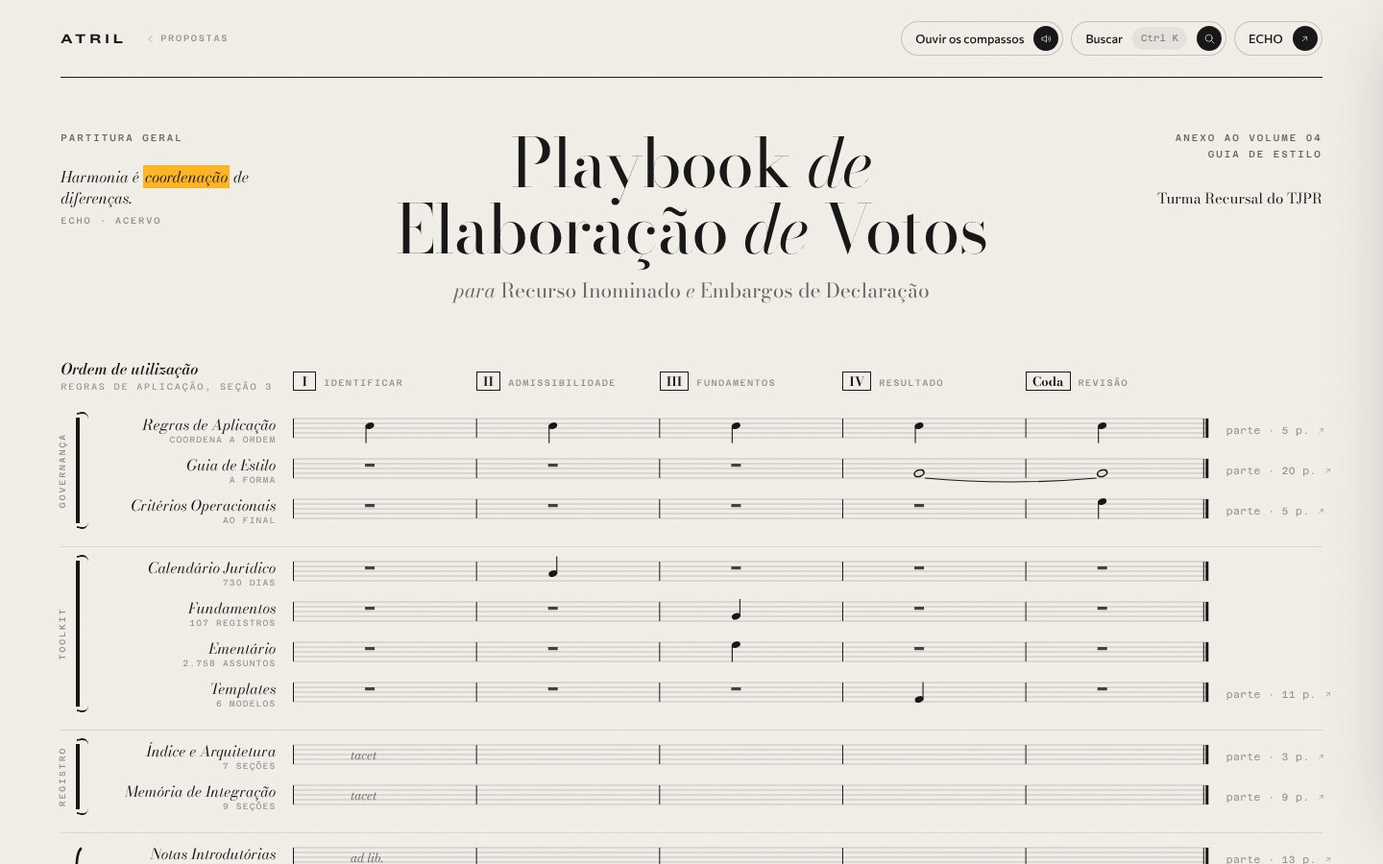
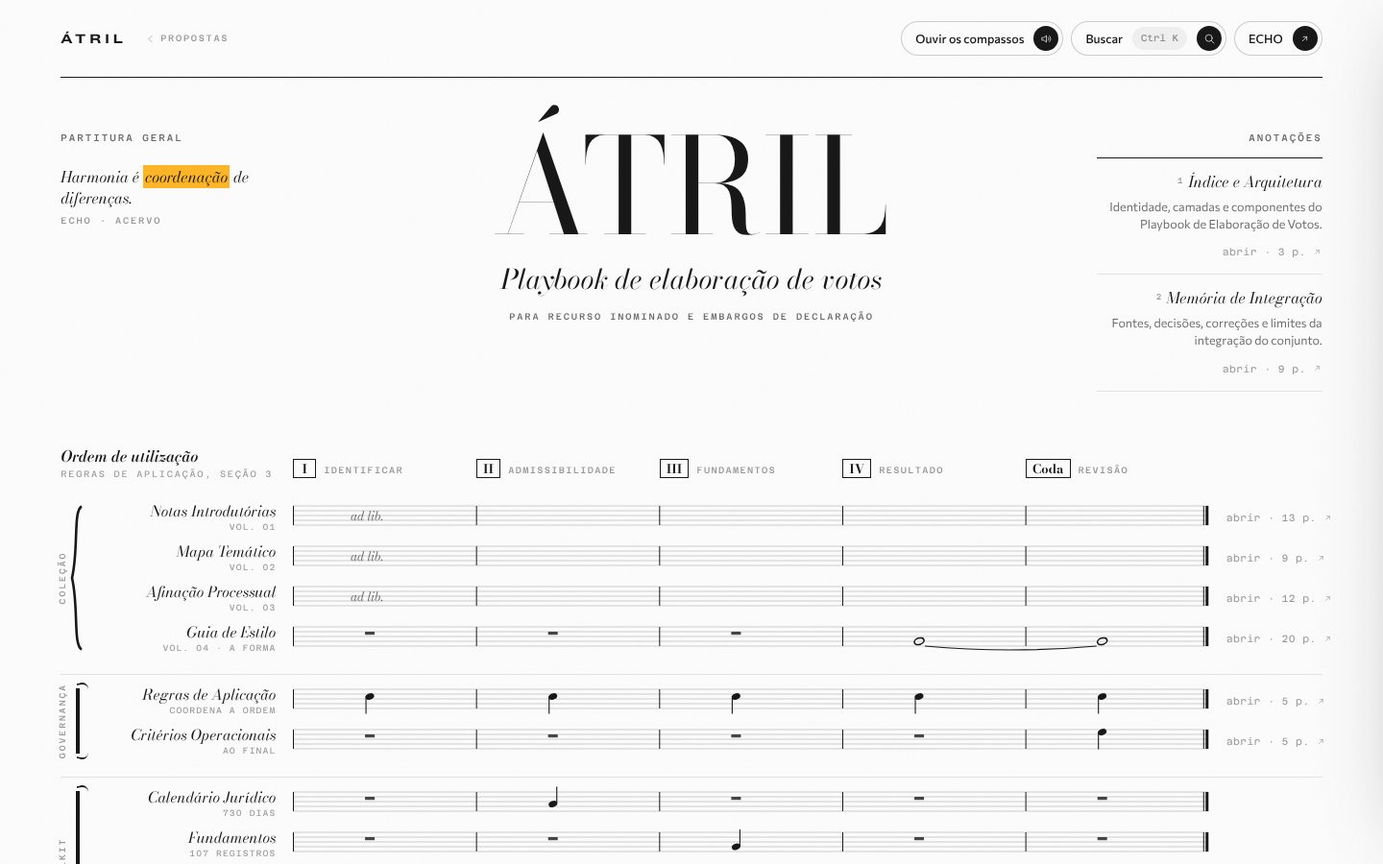
docs(atril): ajusta a proposta B, escolhida
- Coleção passa a ser o primeiro naipe e termina no Guia de Estilo, que
  deixa de aparecer duas vezes; a Governança vem logo depois.
- Índice e Arquitetura e Memória de Integração saem da partitura e viram
  anotações na folha de rosto, no lugar das linhas de origem.
- Título ÁTRIL, subtítulo "Playbook de elaboração de votos", fundo #FCFCFC.
- "abrir" substitui "parte"; o PDF de cada pauta vira link real, fora do
  link da linha.
- A página de propostas marca B como escolhida e registra as decisões.

Claude-Session: https://claude.ai/code/session_01GJcbAC3DcYgjKWACJqr4z9

diff --git a/assets/atril/fonte/propostas/b-partitura.html b/assets/atril/fonte/propostas/b-partitura.html
@@ -3,17 +3,18 @@
 <head>
 <meta charset="utf-8">
 <meta name="viewport" content="width=device-width, initial-scale=1, viewport-fit=cover">
-<title>ATRIL · Partitura geral</title>
+<title>ÁTRIL · Partitura geral</title>
 <link rel="preconnect" href="https://fonts.googleapis.com">
 <link rel="preconnect" href="https://fonts.gstatic.com" crossorigin>
 <link href="https://fonts.googleapis.com/css2?family=Azeret+Mono:wght@400;500&family=Bodoni+Moda:ital,opsz,wght@0,6..96,400..800;1,6..96,400..700&family=Commissioner:wght@300;400;500;600&family=Zalando+Sans+Expanded:wght@700&display=swap" rel="stylesheet">
 <style>
 /* Proposta B · Partitura geral. O acervo como partitura de regência: cada material é uma pauta,
-   agrupada por chave como os naipes de uma orquestra; os compassos são a ordem de utilização das Regras de Aplicação,
-   e as notas ficam onde as Regras mandam usar cada componente. Ler na vertical é ler um passo. */
+   agrupada por chave como os naipes de uma orquestra (Coleção, Governança, Toolkit); os compassos são a ordem
+   de utilização das Regras de Aplicação, e as notas ficam onde as Regras mandam usar cada componente.
+   Ler na vertical é ler um passo. O Registro fica fora do sistema, como anotações na folha de rosto. */
 :root{
   color-scheme: light;
-  --papel:#F2EFE9; --papel-2:#F7F5F0; --tinta:#181818; --grafite:rgba(24,24,24,.64); --cinza:rgba(24,24,24,.44);
+  --papel:#FCFCFC; --papel-2:#FCFCFC; --tinta:#181818; --grafite:rgba(24,24,24,.64); --cinza:rgba(24,24,24,.44);
   --fio:rgba(24,24,24,.2); --fio-2:rgba(24,24,24,.1); --ambar:#FFB627; --ambar-luz:rgba(255,182,39,.16); --latao:#9C7426;
   --serif:"Bodoni Moda",Didot,"Bodoni 72",Georgia,serif;
   --body:"Commissioner",system-ui,sans-serif;
@@ -56,12 +57,20 @@ button{font:inherit;color:inherit;background:none;border:0;padding:0;cursor:poin
 .epigrafe mark{background:var(--ambar);color:inherit;padding:0 .12em}
 .epigrafe small{display:block;margin-top:8px;font:500 9.5px/1 var(--mono);letter-spacing:.2em;text-transform:uppercase;color:var(--cinza)}
 .titulo{text-align:center}
-.titulo h1{margin:0 auto;font:400 clamp(36px,4.9vw,80px)/.98 var(--serif);font-variation-settings:"opsz" 96;letter-spacing:-.02em;text-wrap:balance}
-.titulo h1 i{font-weight:400}
-.titulo p{margin:16px 0 0;font:italic 400 clamp(16px,1.5vw,21px)/1.3 var(--serif);color:var(--grafite)}
-.titulo p span{font-style:normal}
-.rosto-d{text-align:right;font:500 10px/1.7 var(--mono);letter-spacing:.2em;text-transform:uppercase;color:var(--grafite)}
-.rosto-d b{display:block;margin-top:28px;font:400 15px/1.3 var(--serif);letter-spacing:0;text-transform:none;color:var(--tinta)}
+.titulo h1{margin:0 auto;font:400 clamp(64px,9.6vw,156px)/.86 var(--serif);font-variation-settings:"opsz" 96;letter-spacing:.015em}
+.titulo .sub{margin:20px 0 0;font:italic 400 clamp(19px,2vw,30px)/1.2 var(--serif);color:var(--tinta)}
+.titulo .instr{margin:14px 0 0;font:500 9.5px/1.6 var(--mono);letter-spacing:.2em;text-transform:uppercase;color:var(--grafite)}
+.rosto-d{justify-self:end;width:min(100%,250px);text-align:right}
+.rosto-d .rot-a{display:block;margin-bottom:12px;font:500 10px/1.7 var(--mono);letter-spacing:.2em;text-transform:uppercase;color:var(--grafite)}
+.anot{list-style:none;margin:0;padding:0;border-top:1px solid var(--tinta)}
+.anot li{padding:12px 0 13px;border-bottom:1px solid var(--fio-2)}
+.anot .an{display:inline;font:italic 400 16px/1.25 var(--serif);transition:background .4s var(--mola)}
+.anot .an:hover,.anot .an:focus-visible,.anot .an[aria-current="page"]{background:linear-gradient(transparent 58%,var(--ambar) 58%,var(--ambar) 92%,transparent 92%)}
+.anot .an sup{font:500 8.5px/1 var(--mono);letter-spacing:.06em;color:var(--cinza);margin-right:5px;vertical-align:.5em}
+.anot p{margin:5px 0 6px;font:400 12.5px/1.45 var(--body);color:var(--grafite)}
+.anot .ab{display:inline-flex;align-items:center;gap:6px;font:400 10.5px/1 var(--mono);letter-spacing:.04em;color:var(--cinza);transition:color .4s var(--mola)}
+.anot .ab .ic{width:11px;height:11px}
+.anot .ab:hover{color:var(--tinta)}
 
 /* sistema */
 .sistema{position:relative;--x0:calc(var(--chave) + var(--nomes))}
@@ -88,6 +97,7 @@ button{font:inherit;color:inherit;background:none;border:0;padding:0;cursor:poin
 .chave svg{position:absolute;right:2px;top:0;height:100%;width:14px}
 
 .voz{position:relative;height:42px;cursor:pointer;transition:opacity .5s var(--mola)}
+.voz .nm:focus-visible{outline-offset:4px}
 .voz .nm{grid-column:2;justify-self:end;padding-right:18px;text-align:right;line-height:1.1;transition:transform .5s var(--mola)}
 .voz .nm b{font:italic 400 15.5px/1.1 var(--serif);white-space:nowrap}
 .voz .nm small{display:block;margin-top:3px;font:400 9px/1 var(--mono);letter-spacing:.12em;text-transform:uppercase;color:var(--cinza)}
@@ -95,8 +105,8 @@ button{font:inherit;color:inherit;background:none;border:0;padding:0;cursor:poin
 .voz .pt{grid-column:4;justify-self:start;padding-left:18px;font:400 10.5px/1 var(--mono);letter-spacing:.04em;color:var(--cinza);white-space:nowrap;display:inline-flex;align-items:center;gap:6px;transition:color .4s var(--mola)}
 .voz .pt .ic{width:11px;height:11px}
 .voz .pt:hover{color:var(--tinta)}
-.voz:hover .nm,.voz:focus-visible .nm{transform:translateX(-4px)}
-.voz:hover .nm b,.voz:focus-visible .nm b,.voz[aria-current="page"] .nm b{background:linear-gradient(transparent 58%,var(--ambar) 58%,var(--ambar) 92%,transparent 92%)}
+.voz:hover .nm,.voz .nm:focus-visible{transform:translateX(-4px)}
+.voz:hover .nm b,.voz .nm:focus-visible b,.voz[aria-current="page"] .nm b{background:linear-gradient(transparent 58%,var(--ambar) 58%,var(--ambar) 92%,transparent 92%)}
 .sistema.foco-voz .voz:not(.quente){opacity:.32}
 .pauta .l{stroke:var(--fio);stroke-width:1}
 .pauta .bar{stroke:var(--tinta);stroke-width:1}
@@ -152,7 +162,7 @@ button{font:inherit;color:inherit;background:none;border:0;padding:0;cursor:poin
 .secoes li{break-inside:avoid;display:grid;grid-template-columns:30px 1fr;padding:10px 0;border-top:1px solid var(--fio-2);font:400 14.5px/1.4 var(--body)}
 .secoes li span{font:italic 600 14px/1.4 var(--serif);color:var(--latao)}
 .cta{display:inline-flex;align-items:center;gap:14px;height:46px;padding:0 6px 0 22px;border-radius:999px;background:var(--tinta);color:var(--papel);font:500 13.5px/1 var(--body);transition:transform .35s var(--mola)}
-.cta .b{width:34px;height:34px;border-radius:50%;display:grid;place-items:center;background:rgba(242,239,233,.12);transition:transform .5s var(--mola),background .5s var(--mola),color .5s var(--mola)}
+.cta .b{width:34px;height:34px;border-radius:50%;display:grid;place-items:center;background:rgba(252,252,252,.12);transition:transform .5s var(--mola),background .5s var(--mola),color .5s var(--mola)}
 .cta:hover .b{transform:translate(2px,-1px) scale(1.06);background:var(--ambar);color:var(--tinta)}
 .cta:active{transform:scale(.98)}
 .cta.cl{background:transparent;color:var(--tinta);box-shadow:inset 0 0 0 1px var(--fio)}
@@ -183,7 +193,7 @@ button{font:inherit;color:inherit;background:none;border:0;padding:0;cursor:poin
   :root{--parte:0px}
   .voz .pt{display:none}
   .rosto{grid-template-columns:1fr;text-align:center}
-  .rosto-e,.rosto-d{text-align:center}.epigrafe{margin:18px auto 0}.rosto-d b{margin-top:10px}
+  .rosto-e,.rosto-d{text-align:center}.epigrafe{margin:18px auto 0}.rosto-d{justify-self:center;width:min(100%,360px)}
   .rosto-e{order:2}.titulo{order:1}.rosto-d{order:3}
 }
 @media (max-width:700px){
@@ -213,7 +223,7 @@ button{font:inherit;color:inherit;background:none;border:0;padding:0;cursor:poin
 <div class="grao" aria-hidden="true"></div>
 <div class="pag">
   <header class="topo">
-    <div style="display:flex;align-items:center;gap:18px"><a class="marca" href="#" aria-label="ATRIL, início">ATRIL</a><a class="volta" href="./"><svg class="ic" viewBox="0 0 24 24" aria-hidden="true"><path d="M15 6 9 12l6 6"/></svg>Propostas</a></div>
+    <div style="display:flex;align-items:center;gap:18px"><a class="marca" href="#" aria-label="ÁTRIL, início">ÁTRIL</a><a class="volta" href="./"><svg class="ic" viewBox="0 0 24 24" aria-hidden="true"><path d="M15 6 9 12l6 6"/></svg>Propostas</a></div>
     <div class="acoes">
       <button class="pil" type="button" id="b-som" aria-pressed="false"><span class="t">Ouvir os compassos</span><span class="b"><svg class="ic" viewBox="0 0 24 24" aria-hidden="true"><path d="M4 9.5h3.5L12 5.5v13l-4.5-4H4z"/><path d="M15.5 9a4 4 0 0 1 0 6M18 6.5a7.5 7.5 0 0 1 0 11"/></svg></span></button>
       <button class="pil" type="button" id="b-busca"><span class="t">Buscar</span><kbd>Ctrl K</kbd><span class="b"><svg class="ic" viewBox="0 0 24 24" aria-hidden="true"><circle cx="10.5" cy="10.5" r="6.5"/><path d="m15.5 15.5 5 5"/></svg></span></button>
@@ -226,10 +236,11 @@ button{font:inherit;color:inherit;background:none;border:0;padding:0;cursor:poin
       <p class="epigrafe">Harmonia é <mark>coordenação</mark> de diferenças.<small>ECHO · Acervo</small></p>
     </div>
     <div class="titulo">
-      <h1>Playbook <i>de</i><br>Elaboração <i>de</i> Votos</h1>
-      <p>para <span>Recurso Inominado</span> e <span>Embargos de Declaração</span></p>
+      <h1>ÁTRIL</h1>
+      <p class="sub">Playbook de elaboração de votos</p>
+      <p class="instr">para Recurso Inominado e Embargos de Declaração</p>
     </div>
-    <div class="rosto-d">Anexo ao Volume 04<br>Guia de Estilo<b>Turma Recursal do TJPR</b></div>
+    <aside class="rosto-d" aria-label="Anotações"><span class="rot-a">Anotações</span><ol class="anot" id="anot"></ol></aside>
   </section>
 
   <section class="sistema" id="sistema" aria-label="Partitura geral do acervo">
@@ -248,7 +259,7 @@ button{font:inherit;color:inherit;background:none;border:0;padding:0;cursor:poin
 
 <div class="veu" id="veu"></div>
 <aside class="parte" id="parte" aria-hidden="true" aria-labelledby="p-t">
-  <div class="parte-h"><span id="parte-r">Parte</span><button class="pil" type="button" id="fecha" aria-label="Voltar à partitura"><span class="t">Voltar à partitura</span><kbd>Esc</kbd><span class="b"><svg class="ic" viewBox="0 0 24 24" aria-hidden="true"><path d="m6 6 12 12M18 6 6 18"/></svg></span></button></div>
+  <div class="parte-h"><span id="parte-r"></span><button class="pil" type="button" id="fecha" aria-label="Voltar à partitura"><span class="t">Voltar à partitura</span><kbd>Esc</kbd><span class="b"><svg class="ic" viewBox="0 0 24 24" aria-hidden="true"><path d="m6 6 12 12M18 6 6 18"/></svg></span></button></div>
   <div class="parte-c" id="parte-c"></div>
 </aside>
 
@@ -263,24 +274,22 @@ var P={}; A.brancas.forEach(function(m){P[m.id]=m}); A.pretas.forEach(function(m
    Regras: pedal de Dó em todos os compassos. III soa Dó maior; IV suspende (Fá, Sol, Dó); a coda resolve em Dó maior. */
 var NOTA={28:'E4',25.5:'F4',23:'G4',20.5:'A4',18:'B4',15.5:'C5',13:'D5',10.5:'E5'};
 var NAIPES=[
+ {n:'Coleção',tipo:'chaveta',vozes:[
+  {id:'vol-01',nome:'Notas Introdutórias',sub:'vol. 01',marca:'ad lib.',parte:'vol-01'},
+  {id:'vol-02',nome:'Mapa Temático',sub:'vol. 02',marca:'ad lib.',parte:'vol-02'},
+  {id:'vol-03',nome:'Afinação Processual',sub:'vol. 03',marca:'ad lib.',parte:'vol-03'},
+  {id:'guia',nome:'Guia de Estilo',sub:'vol. 04 · a forma',notas:[[4,23,'w'],[5,23,'w']],liga:[4,5],parte:'vol-04'}]},
  {n:'Governança',tipo:'colchete',vozes:[
   {id:'regras',nome:'Regras de Aplicação',sub:'coordena a ordem',notas:[[1,15.5],[2,15.5],[3,15.5],[4,15.5],[5,15.5]],parte:'pdf-regras'},
-  {id:'guia',nome:'Guia de Estilo',sub:'a forma',notas:[[4,23,'w'],[5,23,'w']],liga:[4,5],parte:'vol-04'},
   {id:'criterios',nome:'Critérios Operacionais',sub:'ao final',notas:[[5,10.5]],parte:'pdf-criterios'}]},
  {n:'Toolkit',tipo:'colchete',vozes:[
   {id:'calendario',nome:'Calendário Jurídico',sub:'730 dias',notas:[[2,20.5]],ferr:1},
   {id:'fundamentos',nome:'Fundamentos',sub:'107 registros',notas:[[3,23]],ferr:1},
   {id:'ementario',nome:'Ementário',sub:'2.758 assuntos',notas:[[3,10.5]],ferr:1},
   {id:'templates',nome:'Templates',sub:'6 modelos',notas:[[4,25.5]],ferr:1,parte:'pdf-templates'}]},
- {n:'Registro',tipo:'colchete',vozes:[
-  {id:'indice',nome:'Índice e Arquitetura',sub:'7 seções',marca:'tacet',parte:'pdf-indice'},
-  {id:'memoria',nome:'Memória de Integração',sub:'9 seções',marca:'tacet',parte:'pdf-memoria'}]},
- {n:'Coleção',tipo:'chaveta',vozes:[
-  {id:'vol-01',nome:'Notas Introdutórias',sub:'vol. 01',marca:'ad lib.',parte:'vol-01'},
-  {id:'vol-02',nome:'Mapa Temático',sub:'vol. 02',marca:'ad lib.',parte:'vol-02'},
-  {id:'vol-03',nome:'Afinação Processual',sub:'vol. 03',marca:'ad lib.',parte:'vol-03'},
-  {id:'vol-04',nome:'Guia de Estilo',sub:'vol. 04',marca:'col Guia',parte:'vol-04'}]}
-];
+ ];
+/* Registro: fora do sistema, anotado à margem da folha de rosto. */
+var ANOT=[{id:'indice',parte:'pdf-indice'},{id:'memoria',parte:'pdf-memoria'}];
 var MARCAS=[['I','identificar'],['II','admissibilidade'],['III','fundamentos'],['IV','resultado'],['Coda','revisão']];
 var LETRA=A.passos.concat(['Ao final, aplicar os critérios operacionais e conferir a correspondência entre fundamentação, dispositivo e ementa.']);
 
@@ -290,11 +299,14 @@ $('#naipes').innerHTML=NAIPES.map(function(g){
   return '<div class="naipe"><div class="chave" aria-hidden="true"><span class="nome-n">'+g.n+'</span>'+(g.tipo==='colchete'?'<span class="colchete"></span>':'<svg viewBox="0 0 14 100" preserveAspectRatio="none"><path d="M12 1 C3 4 9 30 2 50 C9 70 3 96 12 99" fill="none" stroke="#181818" stroke-width="2.6" vector-effect="non-scaling-stroke"/></svg>')+'</div>'+
   g.vozes.map(function(v){
     var p=v.parte?P[v.parte]:null;
-    return '<a class="linha voz" href="#'+v.id+'" data-id="'+v.id+'"><span></span><span class="nm"><b>'+v.nome+'</b><small>'+v.sub+'</small></span><svg class="pauta" data-v="'+v.id+'" aria-hidden="true"></svg>'+
-      (p?'<span class="pt" data-pdf="'+p.url+'">parte · '+p.paginas+' p. '+SETA+'</span>':'<span></span>')+'</a>';
+    return '<div class="linha voz" data-id="'+v.id+'"><span></span><a class="nm" href="#'+v.id+'"><b>'+v.nome+'</b><small>'+v.sub+'</small></a><svg class="pauta" data-v="'+v.id+'" aria-hidden="true"></svg>'+
+      (p?'<a class="pt" href="'+p.url+'" target="_blank" rel="noopener" aria-label="Abrir '+v.nome+' em PDF, '+p.paginas+' páginas">abrir · '+p.paginas+' p. '+SETA+'</a>':'<span></span>')+'</div>';
   }).join('')+'</div>';
 }).join('');
-var VOZ={}; NAIPES.forEach(function(g){g.vozes.forEach(function(v){VOZ[v.id]=v})});
+var VOZ={}; NAIPES.forEach(function(g){g.vozes.forEach(function(v){v.naipe=g.n;VOZ[v.id]=v})});
+$('#anot').innerHTML=ANOT.map(function(a,i){var m=P[a.id],p=P[a.parte];
+  return '<li><a class="an" href="#'+a.id+'" data-id="'+a.id+'"><sup>'+(i+1)+'</sup>'+m.nome+'</a><p>'+m.lead+'</p>'+
+    '<a class="ab" href="'+p.url+'" target="_blank" rel="noopener" aria-label="Abrir '+m.nome+' em PDF, '+p.paginas+' páginas">abrir · '+p.paginas+' p. '+SETA+'</a></li>'}).join('');
 
 function desenha(){
   var svgs=document.querySelectorAll('svg.pauta');
@@ -380,7 +392,7 @@ function docHTML(m){
     return '<div class="sec"><h3>'+s[0]+'</h3><div class="princ">'+s[1].map(function(p){return '<div><b>'+p[0]+'</b><span>'+p[1]+'</span></div>'}).join('')+'</div></div>'}).join('')+'</div>';
   else corpo='<ol class="secoes">'+m.secoes.map(function(s){var k=s.indexOf('. ');return '<li><span>'+s.slice(0,k)+'</span>'+s.slice(k+2)+'</li>'}).join('')+'</ol>';
   return '<h2 class="p-t" id="p-t">'+m.nome+'</h2><p class="p-l">'+m.lead+'</p><div class="p-meta"><span>'+m.camada+'</span><span>'+m.secoes.length+' seções</span><span>05/10/2026</span></div><div class="regua"></div>'+corpo+
-  '<div class="botoes"><a class="cta" href="'+m.pdf.url+'" target="_blank" rel="noopener">'+m.pdf.nome+' · '+m.pdf.paginas+' p.<span class="b">'+SETA+'</span></a></div>';
+  '<div class="botoes"><a class="cta" href="'+m.pdf.url+'" target="_blank" rel="noopener">Abrir o PDF · '+m.pdf.paginas+' p.<span class="b">'+SETA+'</span></a></div>';
 }
 function volHTML(m){
   return '<h2 class="p-t" id="p-t">'+m.nome+'</h2><p class="p-l">'+m.sub+'.</p><div class="p-meta"><span>Coleção da Turma Recursal</span><span>'+m.volume+'</span><span>PDF · '+m.paginas+' páginas</span></div><div class="regua"></div>'+
@@ -417,17 +429,18 @@ function liga(id){
 function abre(id){
   var v=VOZ[id], m=P[id];
   if(!v&&!m){fecha();return}
-  document.querySelectorAll('.voz').forEach(function(el){el.toggleAttribute('aria-current',el.dataset.id===id)});
-  $('#parte-r').textContent=v&&v.ferr?'Ferramenta · '+v.nome:(m&&m.tipo==='manual'?'Parte · '+m.volume:'Parte · '+(m?m.nome:''));
+  document.querySelectorAll('.voz,.an').forEach(function(el){el.toggleAttribute('aria-current',el.dataset.id===id)});
+  $('#parte-r').textContent=v&&v.ferr?'Ferramenta · '+v.nome:v?v.naipe+' · '+v.nome:'Anotação · '+m.nome;
   pc.innerHTML=v&&v.ferr?ferrHTML(id):m.tipo==='manual'?volHTML(m):docHTML(m);
   liga(id); pc.scrollTop=0;
   parte.classList.add('on'); parte.setAttribute('aria-hidden','false'); veu.classList.add('on');
 }
-function fecha(){parte.classList.remove('on');parte.setAttribute('aria-hidden','true');veu.classList.remove('on');document.querySelectorAll('.voz').forEach(function(el){el.removeAttribute('aria-current')})}
+function fecha(){parte.classList.remove('on');parte.setAttribute('aria-hidden','true');veu.classList.remove('on');document.querySelectorAll('.voz,.an').forEach(function(el){el.removeAttribute('aria-current')})}
 function rota(){var h=location.hash.slice(1);if(h)abre(h);else fecha()}
 addEventListener('hashchange',rota);
 document.addEventListener('click',function(e){
-  var pt=e.target.closest('.pt'); if(pt){e.preventDefault();open(pt.dataset.pdf,'_blank','noopener');return}
+  if(e.target.closest('a')) return;
+  var voz=e.target.closest('.voz'); if(voz) location.hash=voz.dataset.id;
 });
 function sai(){if(location.hash){history.pushState('',document.title,location.pathname+location.search)}fecha()}
 $('#fecha').addEventListener('click',sai); veu.addEventListener('click',sai);

diff --git a/assets/atril/fonte/propostas/index.html b/assets/atril/fonte/propostas/index.html
@@ -211,26 +211,27 @@ td b{color:var(--tinta);font-weight:600}
     <div class="prop-h">
       <div><h2><span>B</span>Partitura geral</h2>
         <p>O piano sai e entra a regência: o acervo inteiro vira a partitura que o maestro lê, uma pauta por material.</p>
-        <span class="selo">Troca o piano pela regência</span></div>
+        <span class="selo on">Escolhida · versão ajustada</span> <span class="selo">Troca o piano pela regência</span></div>
       <a class="cta" href="b-partitura.html">Abrir protótipo<span class="b"><svg class="ic" viewBox="0 0 24 24" aria-hidden="true"><path d="M8 16 16 8M9.5 8H16v6.5"/></svg></span></a>
     </div>
     <div class="galeria">
-      <figure class="quadro"><div class="moldura"><img src="img/b-compasso.jpg" alt="Proposta Partitura geral: folha de rosto com título em Bodoni e o sistema de pautas agrupadas por chaves, com o compasso III destacado em âmbar."></div><figcaption>Compasso III em foco: Regras, Fundamentos e Ementário soam juntos</figcaption></figure>
+      <figure class="quadro"><div class="moldura"><img src="img/b-compasso.jpg" alt="Proposta Partitura geral ajustada: título ÁTRIL em Bodoni, anotações à direita e o sistema com Coleção, Governança e Toolkit, com o compasso III destacado em âmbar."></div><figcaption>Compasso III em foco: Regras, Fundamentos e Ementário soam juntos</figcaption></figure>
       <div class="pilha">
-        <figure class="quadro"><div class="moldura"><img src="img/b-capa.jpg" alt="Folha de rosto da proposta Partitura geral."></div><figcaption>Folha de rosto e sistema</figcaption></figure>
-        <figure class="quadro"><div class="moldura"><img src="img/b-parte.jpg" alt="A parte do Guia de Estilo aberta sobre a partitura."></div><figcaption>A parte do Guia, aberta sobre a partitura</figcaption></figure>
+        <figure class="quadro"><div class="moldura"><img src="img/b-capa.jpg" alt="Folha de rosto com o título ÁTRIL e as anotações do Registro."></div><figcaption>Folha de rosto com as anotações</figcaption></figure>
+        <figure class="quadro"><div class="moldura"><img src="img/b-parte.jpg" alt="A anotação Índice e Arquitetura aberta sobre a partitura."></div><figcaption>Uma anotação aberta sobre a partitura</figcaption></figure>
       </div>
       <figure class="quadro"><div class="moldura"><img src="img/b-m.jpg" alt="Proposta Partitura geral no celular."></div><figcaption>Celular</figcaption></figure>
     </div>
     <div class="texto-p">
       <div>
-        <p>A página abre como a folha de rosto de uma partitura: título em <b>Bodoni Moda</b> com os "de" em itálico, a instrumentação embaixo ("para Recurso Inominado e Embargos de Declaração"), a autoria à direita e, como epígrafe, a frase do ECHO: <i>Harmonia é coordenação de diferenças</i>, com o marca-texto âmbar da mãe.</p>
-        <p>O sistema é uma <b>matriz de uso verdadeira</b>. Os compassos são a ordem da seção 3 das Regras de Aplicação (I a IV e a coda de revisão). Cada material é uma pauta, agrupada por colchete como um naipe: Governança, Toolkit, Registro e a Coleção, esta presa pela <b>chaveta do piano</b>. As notas estão onde as Regras mandam usar cada componente: Calendário em II; Fundamentos e Ementário em III; Templates em IV; o Guia sustentado de IV até a coda; os Critérios na coda; as Regras como pedal em todos os compassos. Índice e Memória ficam <i>tacet</i>; os volumes, <i>ad libitum</i>.</p>
-        <p>Ler na vertical é ler um passo. Passar o cursor por um compasso acende a coluna e esmaece o resto; com o som ligado, o compasso soa como acorde. As alturas foram escolhidas para que <b>III soe Dó maior, IV fique suspenso e a coda resolva</b>. Clicar num nome abre a parte daquele material sobre a partitura.</p>
+        <p>A página abre como a folha de rosto de uma partitura, sobre o papel #FCFCFC: <b>ÁTRIL</b> em Bodoni Moda, o subtítulo <i>Playbook de elaboração de votos</i> e a instrumentação embaixo. À esquerda, a epígrafe do ECHO, <i>Harmonia é coordenação de diferenças</i>, com o marca-texto âmbar da mãe. À direita, no lugar das linhas de origem, ficam as <b>anotações</b>: Índice e Arquitetura e Memória de Integração, o Registro, que sai do sistema porque não toca na ordem.</p>
+        <p>O sistema é uma <b>matriz de uso verdadeira</b>. Os compassos são a ordem da seção 3 das Regras de Aplicação (I a IV e a coda de revisão). O primeiro naipe é a <b>Coleção</b>, presa pela chaveta do piano, com os volumes 01 a 03 <i>ad libitum</i> e o Guia de Estilo por último, sustentado de IV até a coda. Logo abaixo, a <b>Governança</b>: as Regras como pedal em todos os compassos e os Critérios na coda. Depois o <b>Toolkit</b>: Calendário em II, Fundamentos e Ementário em III, Templates em IV.</p>
+        <p>Ler na vertical é ler um passo. Passar o cursor por um compasso acende a coluna e esmaece o resto; com o som ligado, o compasso soa como acorde. As alturas foram escolhidas para que <b>III soe Dó maior, IV fique suspenso e a coda resolva</b>. Clicar num nome abre o material sobre a partitura; <b>abrir</b>, ao fim de cada pauta, leva ao PDF.</p>
       </div>
       <dl class="ficha">
         <div><dt>Arquétipo</dt><dd>Luxo editorial, divisão editorial</dd></div>
         <div><dt>Tipos</dt><dd>Bodoni Moda, Commissioner, Azeret Mono; Zalando só na marca</dd></div>
+        <div><dt>Fundo</dt><dd>#FCFCFC, o papel da paleta fechada</dd></div>
         <div><dt>Rolagem</dt><dd>Sim, curta. A partitura cabe quase inteira na primeira tela</dd></div>
         <div><dt>Custo</dt><dd>Baixo a médio. SVG simples, sem geometria de perspectiva</dd></div>
         <div><dt>Risco</dt><dd>O mapeamento das notas precisa acompanhar as Regras quando elas mudarem</dd></div>
@@ -288,11 +289,11 @@ td b{color:var(--tinta);font-weight:600}
 
     <div class="reco">
       <div class="reco-in">
-        <h2>Minha escolha: <mark>B</mark>, com o som de A</h2>
+        <h2>Escolhida: <mark>B</mark></h2>
         <div>
           <p><b>A Partitura geral é a única em que a metáfora carrega informação.</b> Não é um piano desenhado nem uma onda bonita: é a ordem de utilização das Regras posta na forma que um regente lê, e ler na vertical responde à pergunta prática de quem redige ("o que eu uso neste passo?"). Ela é clara para leitura longa, diferencia o ATRIL do ECHO sem sair da família e custa menos que as outras, porque troca a geometria de perspectiva por SVG plano.</p>
           <p><b>Se o piano for inegociável, A.</b> É a evolução direta do que existe, mantém a Regra do Instrumento Inteiro e conserta, uma a uma, as nove causas do diagnóstico. C é a melhor vitrine e a pior mesa de trabalho; serve se o ATRIL for antes de tudo uma peça do portfólio.</p>
-          <p>Uma combinação natural: a partitura de B como capa e navegação, a gaveta de vidro e o som por nota de A como camada de interação.</p>
+          <p>A versão ajustada sobe a Coleção para o primeiro naipe, terminando no Guia, põe a Governança logo depois, tira o Registro do sistema para as anotações da folha de rosto, intitula a página ÁTRIL e volta ao fundo #FCFCFC.</p>
         </div>
       </div>
     </div>
@@ -300,11 +301,12 @@ td b{color:var(--tinta);font-weight:600}
 
   <section class="sec" id="decisoes">
     <h2 class="sec-h"><span>03</span>Antes de implementar</h2>
-    <p class="sec-l">Quatro pontos dependem de decisão sua, porque mexem em compromissos escritos no PRODUCT.md e no DESIGN.md.</p>
+    <p class="sec-l">Pontos que mexem em compromissos escritos no PRODUCT.md e no DESIGN.md. O primeiro já foi decidido.</p>
     <div class="decisoes">
-      <div class="decisao"><h3>Papel #F2EFE9 no lugar de #FCFCFC</h3><p>As três propostas usam o creme do ECHO. A paleta fechada do PRODUCT.md e a Regra da Laca e do Papel fixam #FCFCFC. Aproximar da mãe exige emendar esse compromisso.</p></div>
+      <div class="decisao"><h3>Papel: decidido, #FCFCFC</h3><p>A partitura escolhida volta ao papel da paleta fechada. A paleta do PRODUCT.md e a Regra da Laca e do Papel seguem valendo sem emenda.</p></div>
       <div class="decisao"><h3>O laranja de editor</h3><p>Os protótipos retiram o #C84D00 da interface e deixam o âmbar como luz única. O laranja segue nas capas dos manuais, onde é a cor da coleção impressa.</p></div>
-      <div class="decisao"><h3>A página volta a rolar?</h3><p>B e C rolam; A mantém a página fixa em 100dvh. Escolher B ou C revoga a Regra do Instrumento Inteiro.</p></div>
+      <div class="decisao"><h3>A página volta a rolar</h3><p>Com B, a página rola, ainda que pouco. A Regra do Instrumento Inteiro, do DESIGN.md, sai junto com o teclado.</p></div>
+      <div class="decisao"><h3>A grafia do nome</h3><p>O título agora é ÁTRIL, com acento. O PRODUCT.md registra ATRIL, sem acento, como grafia dicionarizada; se o acento é intencional, o registro precisa ser atualizado.</p></div>
       <div class="decisao"><h3>Onde entra no código</h3><p>A fonte canônica é assets/atril/fonte: build/pagina.html, build/css/interface.css e build/interface.js, regenerados por build.py. O DESIGN.md precisa ser reescrito para a direção escolhida.</p></div>
     </div>
     <div class="manter" style="margin-top:56px">
